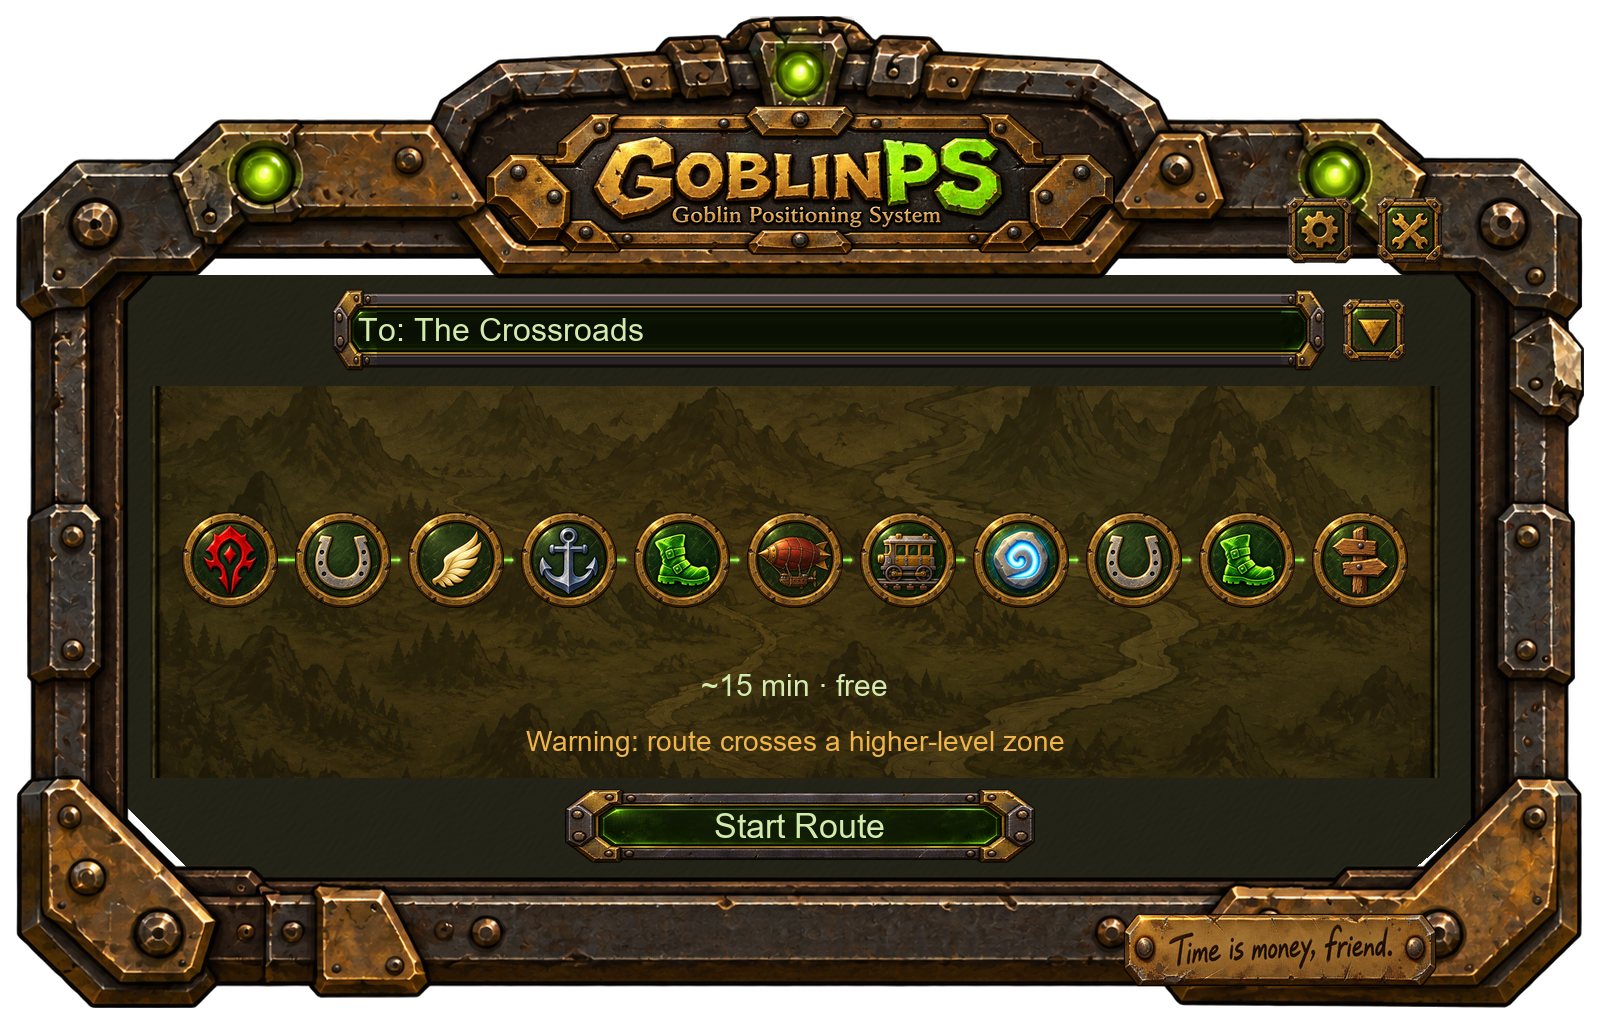
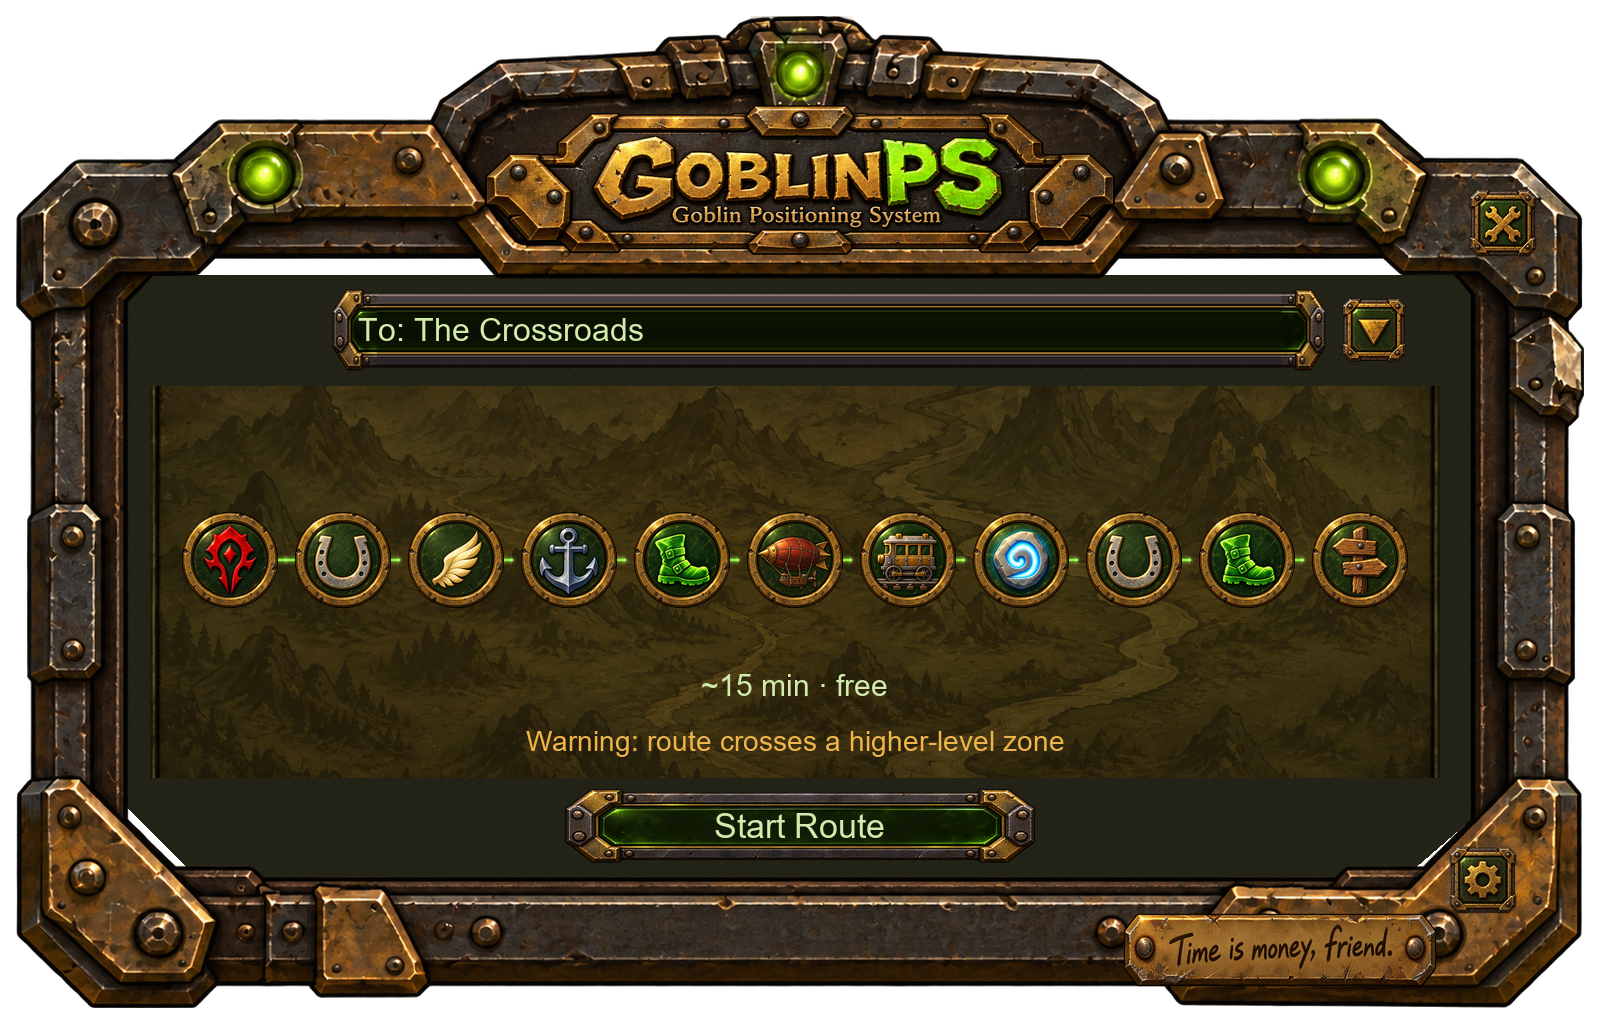
Move planner Close onto upper rivet and gear onto corner brass

Changed region(s): [[0.7812, 0.1875, 0.9688, 0.2812], [0.9062, 0.8125, 0.9688, 0.9062]]

diff --git a/images/parts/build_planner_geometry.py b/images/parts/build_planner_geometry.py
@@ -6,7 +6,7 @@ from PIL import Image, ImageDraw, ImageFont, ImageOps
 ROOT = Path(__file__).resolve().parent
 LAYOUT = {'canvas': [1600, 1024],
     'title_plate': (480,100,1120,260), 'tagline_plate': (1120,910,1440,990),
-    'close_button': (1410,230,38), 'gear_button': (1320,230,38),
+    'close_button': (1503,223,38), 'gear_button': (1483,880,38),
     'to_box': (330,286,1328,374), 'dropdown_button': (1374,330,36),
     'results_list': (330,380,1410,650),
     'screen': (150,386,1440,778), 'strip_track': (230,480,1360,640),

diff --git a/images/parts/QUESTIONS.md b/images/parts/QUESTIONS.md
@@ -1,3 +1,22 @@
+# Planner button placement update (2026-09-21)
+
+Applied `docs/art-parts-brief-planner-buttons.md` through the builder.
+Only the two wide button records changed in the JSON; all other JSON content,
+including tall, matches the previous committed file (Git newline normalization).
+
+| Button | Source center | cx | cy | r (canvas width) |
+| --- | --- | --- | --- | --- |
+| Close | (1503, 223) | 0.939375 | 0.2177734375 | 0.02375 |
+| Gear | (1483, 880) | 0.926875 | 0.859375 | 0.02375 |
+
+Close is centered on the upper-right domed bolt, measured from the source art.
+Both retain a 38px radius. The gear's complete sprite box is (1445,842) to
+(1521,918), leaving 5px horizontally to the tagline box. Visual review confirms
+the gear sits within the corner brass and leaves the neighboring rivets visible.
+Every nontransparent gear pixel lies over frame alpha of at least 252/255
+(the source brass has a few almost-opaque pixels). Fresh wide previews show
+both placements. Runtime Art.lua/TGA regeneration is left to Claude as requested.
+
 # Current handoff: approved mockup layout (2026-09-21)
 
 This section supersedes the historical decisions below. See
